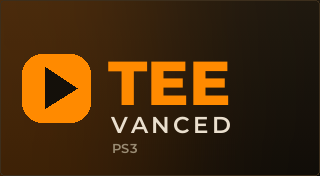
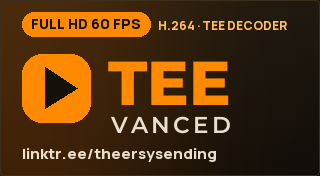
XMB artwork for v2.0.0: FULL HD 60 FPS and the TEE Decoder on tile and background, the linktree where it is seen; version V2.0.0
TEE's call: the tile and the background say what the TEE Decoder brings, and the self-promotion (linktr.ee/theersysending) was a faint line in a corner that nobody saw. The tile now has a "FULL HD 60 FPS" label and "H.264 · TEE DECODER" across the top and the linktree under the wordmark (in place of "PS3"); the background has the label, "H.264 SUPPORT · TEE DECODER" and the linktree as a plate under its subtitle, all in the right half the XMB leaves alone. The wordmark is untouched.

tools/make-branding.py draws the new text in Manrope, the app's own font, read from the bytes the app embeds (apps/yo-player/src/assets/manrope-*.c, SIL OFL), so it needs no installed font for it. These files were made on a machine without Montserrat: the shipped images kept their wordmark pixel for pixel, the old text was taken out by putting back the generator's background (identical to the shipped one wherever there is no text), and the generator's own draw_*_extras added the rest - what make-branding.py renders where Montserrat is installed.

APP_VERSION is V2.0.0.

Changed region(s): [[0.0625, 0.0568, 0.9062, 0.2273], [0.0625, 0.7955, 0.6875, 0.9375]]

diff --git a/tools/make-branding.py b/tools/make-branding.py
@@ -11,27 +11,78 @@ entry looks like it belongs to the same family:
 
 The XMB draws the game's title and its own chrome over the LEFT half of PIC1, so everything that has to stay
 readable lives on the right.
+
+Since v2.0.0 both also say what the TEE Decoder brings (FULL HD 60 FPS, H.264) and carry the linktree where it is
+seen - on the tile, and as a plate under the claim on the background (it used to be a faint line in a corner).
+That text is Manrope, the app's own font, read straight from the bytes the app embeds - no installed font needed
+for it; the wordmark stays Montserrat.
 """
 
+import io
 import pathlib
+import re
 from PIL import Image, ImageDraw, ImageFilter, ImageFont
 
-OUT = pathlib.Path(__file__).resolve().parent.parent / "branding"
+ROOT = pathlib.Path(__file__).resolve().parent.parent
+OUT = ROOT / "branding"
 OUT.mkdir(exist_ok=True)
 
 BRAND = (255, 138, 0)
 LIGHT = (255, 190, 92)
 CREAM = (234, 223, 206)
 MUTED = (154, 140, 116)
+INK = (20, 16, 10)
 BG_TOP = (32, 25, 15)
 BG_BOTTOM = (16, 13, 8)
 
 HEAVY = "/usr/share/fonts/opentype/montserrat/Montserrat-ExtraBold.otf"
 MEDIUM = "/usr/share/fonts/opentype/montserrat/Montserrat-SemiBold.otf"
 
+LINKTREE = "linktr.ee/theersysending"
+
 
 def font(path, size):
     return ImageFont.truetype(path, size)
+
+
+_manrope = {}
+
+
+def manrope(weight, size):
+    """Manrope (SIL OFL 1.1) as the app embeds it: apps/yo-player/src/assets/manrope-<weight>.c holds the TTF."""
+    if weight not in _manrope:
+        text = (ROOT / "apps/yo-player/src/assets" / f"manrope-{weight}.c").read_text(encoding="utf-8")
+        body = text[text.index("{") + 1:text.rindex("}")]
+        _manrope[weight] = bytes(int(h, 16) for h in re.findall(r"0x([0-9a-fA-F]{2})", body))
+    return ImageFont.truetype(io.BytesIO(_manrope[weight]), size)
+
+
+def pill(draw, x, y, text, fnt, fill, ink, pad_x, height, outline=None, width=0):
+    """A rounded label with its text centred on the capitals, not on the font's line box. Returns its right edge."""
+    l, _, r, _ = draw.textbbox((0, 0), text, font=fnt)
+    _, cap_top, _, cap_bottom = draw.textbbox((0, 0), "H", font=fnt)
+    w = (r - l) + 2 * pad_x
+    draw.rounded_rectangle((x, y, x + w, y + height), radius=height // 2, fill=fill, outline=outline, width=width)
+    draw.text((x + pad_x - l, y + (height - (cap_bottom - cap_top)) / 2 - cap_top), text, font=fnt, fill=ink)
+    return x + w
+
+
+def draw_icon_extras(img):
+    """The tile's claim across the top, and the linktree under the wordmark."""
+    d = ImageDraw.Draw(img)
+    end = pill(d, 22, 12, "FULL HD 60 FPS", manrope("extrabold", 14), BRAND, INK, 9, 24)
+    d.text((end + 8, 17), "H.264 · TEE DECODER", font=manrope("extrabold", 12), fill=LIGHT)
+    d.text((22, 143), LINKTREE, font=manrope("extrabold", 15), fill=CREAM)
+
+
+def draw_background_extras(img):
+    """Under the background's subtitle: the claim, and the linktree as a plate that can be seen from the sofa."""
+    d = ImageDraw.Draw(img)
+    x = 1306
+    pill(d, x, 690, "FULL HD 60 FPS", manrope("extrabold", 34), BRAND, INK, 26, 64)
+    d.text((x, 778), "H.264 SUPPORT · TEE DECODER", font=manrope("extrabold", 34), fill=LIGHT)
+    d.text((x, 880), "Updates & more from TEE:", font=manrope("semibold", 24), fill=MUTED)
+    pill(d, x, 922, LINKTREE, manrope("extrabold", 34), (34, 26, 16), CREAM, 26, 64, outline=BRAND, width=3)
 
 
 def vertical_gradient(size, top, bottom):
@@ -101,9 +152,8 @@ def make_icon():
     d.text((108, 44), "TEE", font=tee, fill=BRAND)
     tracked_text(d, (111, 110), "VANCED", vanced, CREAM, 3.2)
 
-    small = font(MEDIUM, 13)
     # no version on the tile: it went stale with every release (the XMB title carries it instead)
-    d.text((112, 140), "PS3", font=small, fill=MUTED)
+    draw_icon_extras(img)
 
     d.rounded_rectangle((0, 0, W - 1, H - 1), radius=4, outline=(60, 46, 28), width=1)
     path = OUT / "ICON0.PNG"
@@ -138,9 +188,7 @@ def make_background():
     # name anyone else's brand. "YT" is the owner's wording.
     d.text((1306, 616), "YT Player for PlayStation 3 with adblock", font=sub, fill=MUTED)
 
-    foot = font(MEDIUM, 24)
-    text = "linktr.ee/theersysending"
-    d.text((W - 70 - d.textlength(text, font=foot), H - 74), text, font=foot, fill=(120, 108, 90))
+    draw_background_extras(img)
 
     path = OUT / "PIC1.PNG"
     img.save(path, optimize=True)

diff --git a/apps/yo-player/include/app-paths.h b/apps/yo-player/include/app-paths.h
@@ -31,4 +31,4 @@ const char *getAppDataDir(void);
 // The version shown in the app and on its settings card. BUILD_STAMP is a git count+hash and stays
 // identical between builds while the tree is uncommitted, so it cannot tell two packages apart - which
 // is exactly what made a shipped-but-stale build hard to identify from a screenshot.
-#define APP_VERSION "V2.0.0 Test12"
+#define APP_VERSION "V2.0.0"
